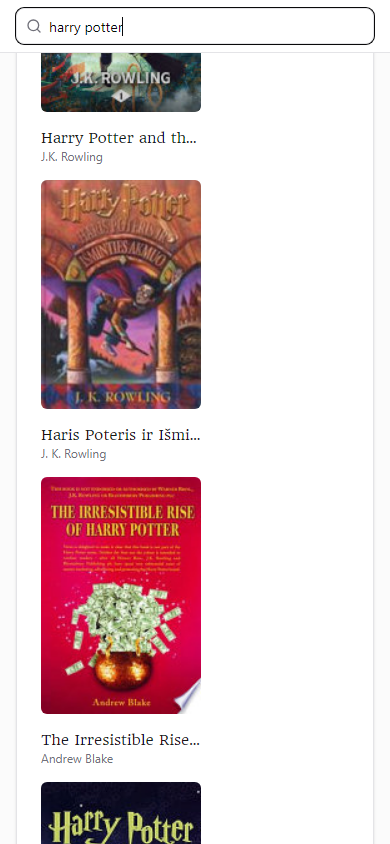
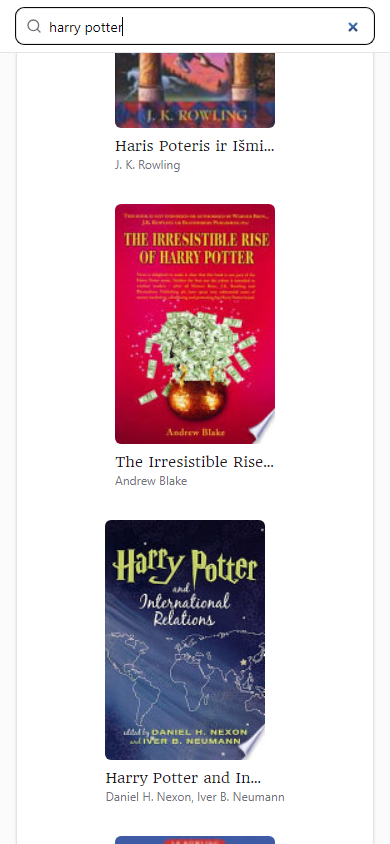
refactor: use flexbox instead of grid for books card

diff --git a/src/views/HomeView.vue b/src/views/HomeView.vue
@@ -56,26 +56,21 @@ const searchForBooks = async () => {
 </script>
 
 <template>
-  <div class="flex min-h-screen w-full flex-col bg-muted/40">
-    <div class="flex flex-col sm:py-4">
+  <div class="flex min-h-screen flex-col items-center bg-muted/40">
+    <div class="flex flex-col items-center sm:py-4">
       <Header>
         <h1 class="sr-only">literacite</h1>
-        <div class="relative mr-auto flex-1 gap-2 md:grow-0">
-          <SearchBar v-model:search-value="searchValue" @search="searchForBooks" />
-        </div>
+        <SearchBar v-model:search-value="searchValue" @search="searchForBooks" />
       </Header>
 
-      <main class="flex w-full flex-col gap-4 p-4">
-        <div class="flex flex-col gap-4 sm:flex-row sm:gap-0">
-          <div class="space-x-2 sm:mr-auto">
-            <ReadingProgress
-              title="Pages read today"
-              :pagesRead="numOfPagesReadToday"
-              :pagesTotal="pagesPerDay"
-            />
-          </div>
-
-          <div class="space-x-2 sm:ml-auto">
+      <main class="container flex max-w-fit flex-col gap-4 p-4">
+        <div class="flex flex-col items-center justify-between gap-4">
+          <ReadingProgress
+            title="Pages read today"
+            :pagesRead="numOfPagesReadToday"
+            :pagesTotal="pagesPerDay"
+          />
+          <div class="space-x-2">
             <Filter v-model="selectedFilter" />
             <ProgressInput />
             <Settings />

diff --git a/src/components/Books/Books.vue b/src/components/Books/Books.vue
@@ -1,7 +1,7 @@
 <script setup lang="ts">
 import { Card, CardContent, CardDescription, CardHeader, CardTitle } from '@/components/ui/card';
 import EmptyBooks from './EmptyBooks.vue';
-import VBook from './VBook.vue';
+import Book from './Book.vue';
 import type { BookProps } from '@/interfaces';
 
 const props = defineProps<{
@@ -10,10 +10,10 @@ const props = defineProps<{
 </script>
 
 <template>
-  <Card>
-    <CardHeader>
+  <Card class="max-w-fit">
+    <CardHeader class="text-center sm:text-left">
       <CardTitle>Books</CardTitle>
-      <CardDescription
+      <CardDescription class="text-balance"
         >View your books, update their status or search for the new ones.</CardDescription
       >
     </CardHeader>
@@ -21,8 +21,8 @@ const props = defineProps<{
     <CardContent>
       <EmptyBooks v-if="books.length === 0" data-testid="empty-books" />
 
-      <div v-else class="grid grid-cols-auto gap-x-8 gap-y-4">
-        <VBook v-for="book in props.books" :key="book.id" :book="book" data-testid="book" />
+      <div v-else class="flex flex-wrap items-center justify-center gap-8 sm:justify-start">
+        <Book v-for="book in props.books" :key="book.id" :book="book" data-testid="book" />
       </div>
     </CardContent>
   </Card>

diff --git a/src/components/Books/Book.vue b/src/components/Books/Book.vue
@@ -13,11 +13,11 @@ const isModalOpen = ref(false);
 <template>
   <div
     v-if="props.book.volumeInfo.imageLinks && props.book.volumeInfo.authors"
-    class="group row-span-2 grid cursor-pointer grid-rows-subgrid"
+    class="group flex cursor-pointer flex-col gap-2"
     :title="props.book.volumeInfo.title"
     @click="isModalOpen = true"
   >
-    <div class="relative max-h-60 max-w-40">
+    <div class="relative h-60 w-40">
       <img
         class="h-full w-full rounded-md object-cover group-hover:opacity-75"
         :src="props.book.volumeInfo.imageLinks.thumbnail"
@@ -30,7 +30,9 @@ const isModalOpen = ref(false);
       <h2 class="max-w-40 truncate font-headland text-sm text-primary">
         {{ props.book.volumeInfo.title }}
       </h2>
-      <p class="text-xs text-muted-foreground">{{ props.book.volumeInfo.authors.join(', ') }}</p>
+      <p class="max-w-40 truncate text-xs text-muted-foreground">
+        {{ props.book.volumeInfo.authors.join(', ') }}
+      </p>
     </div>
 
     <BookModal :is-open="isModalOpen" :book="book" @close="isModalOpen = false" />

diff --git a/src/components/SearchBar.vue b/src/components/SearchBar.vue
@@ -26,7 +26,7 @@ const emitSearch = useDebounceFn(() => {
       id="search-input"
       type="search"
       placeholder="Search for a book..."
-      class="w-full rounded-lg bg-background pl-8 md:w-[200px] lg:w-[320px]"
+      class="w-full rounded-lg bg-background pl-8 md:w-[320px]"
       :model-value="props.searchValue"
       @update:model-value="emit('update:searchValue', $event.toString())"
       @input="emitSearch"

diff --git a/src/components/Toasts/Toasts.vue b/src/components/Toasts/Toasts.vue
@@ -10,7 +10,7 @@ const { toasts } = storeToRefs(toastStore);
 <template>
   <ul
     v-if="toasts.length > 0"
-    class="fixed bottom-2 flex w-full flex-col gap-2 sm:bottom-auto sm:right-2 sm:top-2 sm:w-fit sm:items-end"
+    class="fixed bottom-2 left-2 z-50 flex w-full flex-col gap-2 sm:bottom-auto sm:left-auto sm:right-2 sm:top-2 sm:w-fit sm:items-end"
   >
     <Toast
       v-for="toast in toasts"

diff --git a/src/components/Header.vue b/src/components/Header.vue
@@ -1,7 +1,5 @@
 <template>
-  <header
-    class="sticky top-0 z-30 flex items-center gap-4 border-b bg-background px-4 py-2 sm:static sm:h-auto sm:border-0 sm:bg-transparent sm:py-0"
-  >
+  <header class="sticky top-0 z-30 flex items-center gap-4 px-4 py-2 sm:static sm:h-auto">
     <slot />
   </header>
 </template>
